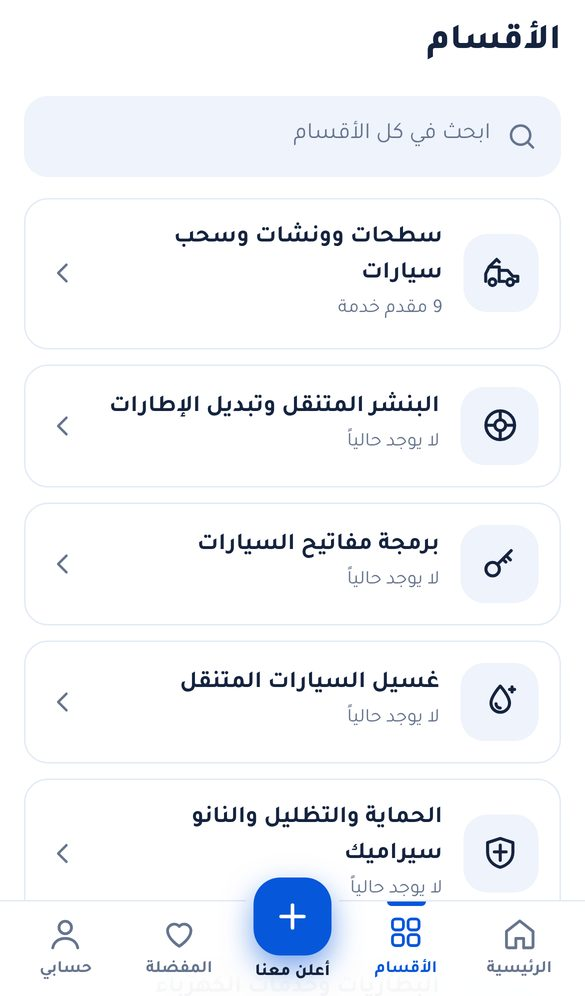
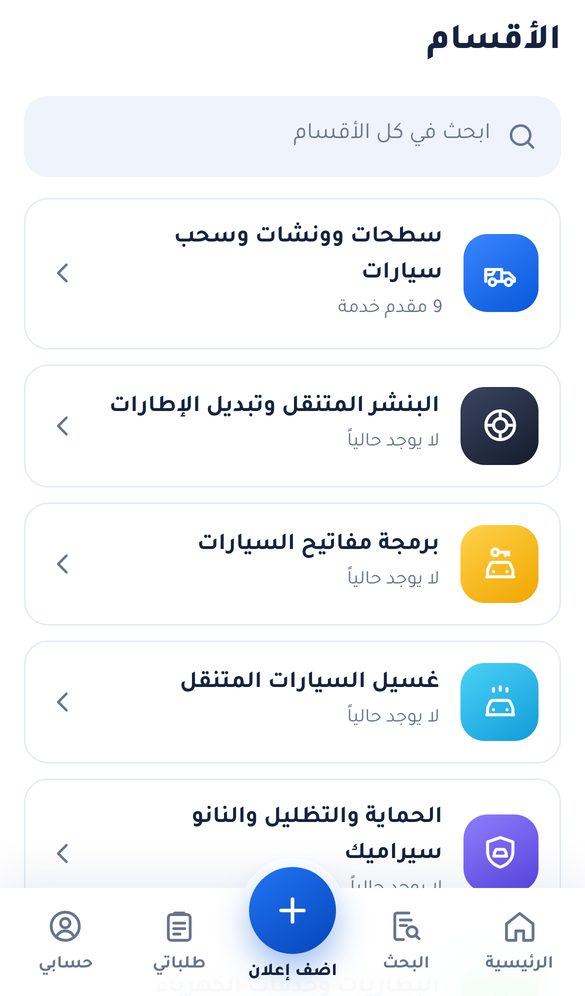
واجهة بنفس تصميم تطبيق ماتعطل مع تحسينات
- ترويسة زرقاء متدرجة مع التحية و«وين ما تعطلت... إحنا قريبين منك.»
- شريط بحث عائم بزر أزرق وفلتر، وبطاقة صفراء «سيارتك تعطلت؟»
- أيقونات الخدمات بمربعات ملوّنة متدرجة
- بطاقات «قريب منك» زرقاء مع المسافة وشعار مقدم الخدمة
- شريط سفلي: الرئيسية، البحث، اضف إعلان، طلباتي، حسابي
- صفحة «طلباتي» (الإعلانات وطلب الانضمام)

Claude-Session: https://claude.ai/code/session_0146Lf518ZNvSUDuRn6RZiVQ

diff --git a/preview/js/app.js b/preview/js/app.js
@@ -6,7 +6,7 @@ import {
 } from './core.js';
 
 initSession('local');
-const VERSION = '4.0.1';
+const VERSION = '4.1.0';
 const COLS = 'id,service_id,name,phone,whatsapp,price_text,rating,rating_count,logo_url,cover_url,photos,description,address,lat,lng,is_24h,is_available,created_at,featured_until,is_sample,company_areas(areas(name_ar)),company_services(service_id)';
 
 /* ================= الحالة ================= */
@@ -132,8 +132,10 @@ function actions(c) {
 function pcard(c) {
   const fav = S.favs.has(c.id);
   return `<div class="pcard" data-href="#/c/${c.id}" role="link" tabindex="0" aria-label="${esc(c.name)}">
-    <div class="media">${media(c)}<div class="badges">${c.feat ? `<span class="badge y">${icon('star')}مميز</span>` : ''}${c.h24 ? `<span class="badge dark">${icon('clock')}24 ساعة</span>` : ''}</div>
-      <button class="fav-mini ${fav ? 'on' : ''}" data-act="fav" data-id="${c.id}" aria-label="المفضلة">${icon('heart')}</button></div>
+    <div class="media blue">${c.cover ? `<img src="${esc(c.cover)}" alt="" loading="lazy" decoding="async">` : `<span class="bigic">${svcIcon(svc(c.s) || c.s)}</span>`}
+      <div class="badges">${distTxt(c) ? `<span class="badge glass">${icon('pin')}${distTxt(c)}</span>` : ''}${c.feat ? `<span class="badge y">${icon('star')}مميز</span>` : ''}${c.h24 ? `<span class="badge glass">${icon('clock')}24 ساعة</span>` : ''}</div>
+      <button class="fav-mini ${fav ? 'on' : ''}" data-act="fav" data-id="${c.id}" aria-label="المفضلة">${icon('heart')}</button>
+      <span class="av">${c.logo ? `<img src="${esc(c.logo)}" alt="" loading="lazy">` : svcIcon(svc(c.s) || c.s)}</span></div>
     <div class="body"><div class="nm">${esc(c.name)}</div>
       <div class="meta">${svcIcon(svc(c.s) || c.s)}<span>${esc(svcName(c.s))}</span></div>
       <div class="meta">${icon('pin')}<span>${esc(areaText(c))}${distTxt(c) ? ' · ' + distTxt(c) : ''}</span><span style="margin-inline-start:auto">${rateHtml(c)}</span></div>
@@ -197,7 +199,7 @@ function pgHome() {
   const maint = S.settings.maintenance_message;
   const homeAds = S.ads.filter(a => a.ad_type === 'home_banner' && safeImg(a.image_url));
   const items = [...homeAds.map(a => bannerHtml(a, 'ad')), ...S.banners.map(b => bannerHtml(b)), ...promos()];
-  const cats = S.services.map(s => `<a class="cat" href="#/s/${esc(s.id)}"><span class="ic">${svcIcon(s)}</span><span class="n">${esc(s.name_ar)}</span></a>`).join('');
+  const cats = S.services.map(s => `<a class="cat" href="#/s/${esc(s.id)}"><span class="ic tile t-${esc(s.icon || s.id)}">${svcIcon(s)}</span><span class="n">${esc(s.name_ar)}</span></a>`).join('');
   let nearby, featured = '', latest;
   if (!S.loaded) { nearby = skRail(); latest = skRail(); }
   else {
@@ -212,15 +214,18 @@ function pgHome() {
   return {
     tab: 'home',
     html: `
-    <div class="home-band"><div class="home-head"><div class="logo" aria-label="ماتعطل"><span class="mark">م</span>ماتعطل<span class="dot">•</span></div>
+    <div class="home-band"><div class="home-head"><div class="logo wordmark" aria-label="ماتعطل">ماتعطل<span class="dot"></span></div>
       <button class="loc-chip" data-act="area" aria-label="اختيار المنطقة">${icon('pin', 'pin')}<span>${esc(areaLabel())}</span>${icon('chevD')}</button></div>
-    <a class="searchbar" href="#/search" aria-label="بحث">${icon('search')}<span class="ph">ابحث عن ونش، بنشر، مفاتيح...</span></a></div>
-    ${maint ? `<div class="pad" style="margin-top:10px"><div class="note y">${icon('info')}<div>${esc(maint)}</div></div></div>` : ''}
+      <div class="greet"><small>${new Date().getHours() < 12 ? 'صباح الخير' : 'مساء الخير'} 👋</small><h1>وين ما تعطلت...<br>إحنا قريبين منك.</h1></div></div>
+    <div class="search-float"><a class="sbtn" href="#/search" aria-label="بحث">${icon('search')}</a><a class="sph" href="#/search">ابحث عن سطحة، بنشر، مفاتيح...</a><a class="sflt" href="#/categories" aria-label="الفلاتر">${icon('filter')}</a></div>
+    <a class="sos" href="#/s/tow"><span class="ic">${icon('siren')}</span><span class="t"><b>سيارتك تعطلت؟</b><small>اطلب سطحة الآن وتواصل مباشرة</small></span>${icon('arrowL', 'go')}</a>
+    ${maint ? `<div class="pad" style="margin-top:12px"><div class="note y">${icon('info')}<div>${esc(maint)}</div></div></div>` : ''}
     ${S.err && !S.loaded ? errBox() : ''}
-    <section class="sec" style="margin-top:14px">${carousel(items)}</section>
-    <section class="sec"><div class="sec-h"><h2>الأقسام</h2><a class="more" href="#/categories">عرض الكل${icon('chevL')}</a></div><div class="cats">${cats || '<div class="sk" style="grid-column:1/-1;height:180px"></div>'}</div></section>
-    <section class="sec"><div class="sec-h"><h2>القريبة منك</h2>${S.area !== 'all' || S.pos ? `<button class="more" data-act="area">${esc(areaLabel())}${icon('chevD')}</button>` : ''}</div>${nearby}</section>
+    ${homeAds.length || S.banners.length ? `<section class="sec">${carousel(items.slice(0, homeAds.length + S.banners.length))}</section>` : ''}
+    <section class="sec"><div class="sec-h"><h2>الخدمات</h2><a class="more" href="#/categories">الكل${icon('chevL')}</a></div><div class="cats">${cats || '<div class="sk" style="grid-column:1/-1;height:180px"></div>'}</div></section>
+    <section class="sec"><div class="sec-h"><h2>قريب منك</h2>${S.area !== 'all' || S.pos ? `<a class="more" href="#/s/${esc((S.services[0] || {}).id || 'tow')}?sort=near">عرض الكل${icon('chevL')}</a>` : ''}</div>${nearby}</section>
     ${featured}
+    ${!homeAds.length && !S.banners.length ? `<section class="sec">${carousel(promos())}</section>` : ''}
     <section class="sec"><div class="sec-h"><h2>أحدث مقدمي الخدمات</h2></div>${latest}</section>
     ${installCard()}
     <div class="footer-note">ماتعطل · منصة خدمات السيارات في الكويت<br>التواصل والدفع يتم مباشرة بينك وبين مقدم الخدمة.</div>`,
@@ -256,7 +261,7 @@ function pgCategories() {
     tab: 'cats',
     html: `<header class="topbar"><h1 style="font-size:24px">الأقسام</h1></header>
     <a class="searchbar" href="#/search" style="margin-bottom:14px">${icon('search')}<span class="ph">ابحث في كل الأقسام</span></a>
-    <div class="cat-list">${S.services.map(s => `<a class="cat-row" href="#/s/${esc(s.id)}"><span class="ic">${svcIcon(s)}</span><span><b>${esc(s.name_ar)}</b><small>${S.loaded ? (n(s.id) ? fmtNum(n(s.id)) + ' مقدم خدمة' : 'لا يوجد حالياً') : '...'}</small></span>${icon('chevL', 'chev')}</a>`).join('') || '<div class="sk" style="height:300px"></div>'}</div>
+    <div class="cat-list">${S.services.map(s => `<a class="cat-row" href="#/s/${esc(s.id)}"><span class="ic tile t-${esc(s.icon || s.id)}">${svcIcon(s)}</span><span><b>${esc(s.name_ar)}</b><small>${S.loaded ? (n(s.id) ? fmtNum(n(s.id)) + ' مقدم خدمة' : 'لا يوجد حالياً') : '...'}</small></span>${icon('chevL', 'chev')}</a>`).join('') || '<div class="sk" style="height:300px"></div>'}</div>
     ${S.err && !S.loaded ? errBox() : ''}`,
   };
 }
@@ -310,7 +315,7 @@ function pgService([id], q) {
 function pgSearch(_, q) {
   const text = q.get('q') || '';
   return {
-    tab: 'home',
+    tab: 'search',
     html: `<header class="topbar"><button class="icon-btn clear" data-act="back" aria-label="رجوع">${icon('chevR')}</button>
       <label class="searchbar" style="margin:0;flex:1;width:auto;height:48px">${icon('search')}<input id="sq" type="search" placeholder="ابحث عن خدمة أو اسم أو منطقة" value="${esc(text)}" data-live="search" enterkeyhint="search" autocomplete="off" aria-label="بحث"></label></header>
       <div id="sres">${searchResults(text)}</div>`,
@@ -322,7 +327,7 @@ function searchResults(text) {
   if (!t) {
     return `${S.recent.length ? `<div class="sec-h" style="margin-top:14px"><h2 style="font-size:16px">عمليات البحث الأخيرة</h2><button class="more" data-act="clear-recent">مسح</button></div><div class="chips" style="flex-wrap:wrap">${S.recent.map(r => `<a class="chip out" href="#/search?q=${encodeURIComponent(r)}">${icon('clock')}${esc(r)}</a>`).join('')}</div>` : ''}
       <div class="sec-h" style="margin-top:20px"><h2 style="font-size:16px">تصفّح حسب الخدمة</h2></div>
-      <div class="cat-list">${S.services.map(s => `<a class="cat-row" href="#/s/${esc(s.id)}"><span class="ic">${svcIcon(s)}</span><span><b>${esc(s.name_ar)}</b></span>${icon('chevL', 'chev')}</a>`).join('')}</div>`;
+      <div class="cat-list">${S.services.map(s => `<a class="cat-row" href="#/s/${esc(s.id)}"><span class="ic tile t-${esc(s.icon || s.id)}">${svcIcon(s)}</span><span><b>${esc(s.name_ar)}</b></span>${icon('chevL', 'chev')}</a>`).join('')}</div>`;
   }
   const cats = S.services.filter(s => norm(s.name_ar).includes(t) || t.split(' ').some(w => w.length > 1 && norm(s.name_ar).includes(w)));
   const syn = { 'ونش': 'tow', 'سطحه': 'tow', 'سحب': 'tow', 'بنشر': 'tire', 'تاير': 'tire', 'اطار': 'tire', 'كفر': 'tire', 'مفتاح': 'keys', 'ريموت': 'keys', 'غسيل': 'wash', 'تلميع': 'wash', 'تظليل': 'shield', 'نانو': 'shield', 'حمايه': 'shield', 'بطاريه': 'bat', 'بطارية': 'bat', 'كهرباء': 'bat', 'ميكانيك': 'mech', 'صيانه': 'mech' };
@@ -506,7 +511,7 @@ function pgAccount() {
 function pgFavorites() {
   const list = S.cos.filter(c => S.favs.has(c.id));
   return {
-    tab: 'fav',
+    tab: 'account',
     html: `<header class="topbar"><h1 style="font-size:24px">المفضلة</h1></header>
     ${!S.loaded ? '<div class="stack"><div class="sk" style="height:120px"></div></div>' : list.length ? `<div class="stack">${list.map(lcard).join('')}</div>` : emptyBox('heart', 'ما عندك مفضلة بعد', 'اضغط على القلب في أي مقدم خدمة لحفظه هنا والوصول له بسرعة.', '<a class="btn primary" href="#/categories">تصفّح الأقسام</a>')}
     ${!session() && list.length ? `<div class="pad" style="margin-top:14px"><div class="note">${icon('info')}<div>المفضلة محفوظة على هذا الجهاز. <a href="#/auth?next=/favorites" style="font-weight:800;text-decoration:underline">سجّل دخولك</a> لحفظها في حسابك.</div></div></div>` : ''}`,
@@ -542,7 +547,7 @@ async function pgMyBusiness() {
   let list = [];
   try { list = await myCompanies(); } catch (e) { return { html: topbar('نشاطي التجاري') + emptyBox('refresh', 'تعذّر التحميل', errText(e)) }; }
   return {
-    tab: 'account',
+    tab: 'req',
     html: topbar('نشاطي التجاري') + (list.length ? `<div class="stack" style="margin-top:12px">${list.map(c => `<div class="item-card"><div class="top">${safeImg(c.logo_url) ? `<img src="${esc(safeImg(c.logo_url))}" alt="">` : `<span class="ph">${svcIcon(svc(c.service_id) || c.service_id)}</span>`}<div style="flex:1;min-width:0"><b>${esc(c.name)}</b><small style="color:var(--mut)">${esc(svcName(c.service_id))}</small></div></div>
       <div class="tagline">${statusTag(c)}${c.status === 'approved' && c.sub_end ? `<span class="tg">الاشتراك حتى ${fmtDate(c.sub_end)}</span>` : ''}</div>
       ${c.status === 'approved' ? `<div class="stats3"><div><b>${fmtNum(c.visits)}</b><small>مشاهدة</small></div><div><b>${fmtNum(c.calls)}</b><small>اتصال</small></div><div><b>${fmtNum(c.wa_taps)}</b><small>واتساب</small></div></div>` : ''}
@@ -708,7 +713,7 @@ async function pgMyAds() {
   catch (e) { return { html: topbar('إعلاناتي') + emptyBox('refresh', 'تعذّر التحميل', errText(e)) }; }
   const tName = id => (AD_TYPES.find(t => t.id === id) || {}).t || id;
   return {
-    tab: 'ad',
+    tab: 'req',
     html: topbar('إعلاناتي') + (list.length ? `<div class="stack" style="margin-top:12px">${list.map(a => { const [k, t] = adStatus(a); return `<div class="item-card"><img class="wide-img" src="${esc(safeImg(a.image_url))}" alt="" loading="lazy">
       <div style="display:flex;justify-content:space-between;gap:8px;align-items:center"><b>${esc(a.title || tName(a.ad_type))}</b><span class="tg ${k}">${esc(t)}</span></div>
       <small style="color:var(--mut)">${esc(tName(a.ad_type))} · ${a.duration_days} يوم · أُرسل ${fmtDate(a.created_at)}</small>
@@ -716,6 +721,17 @@ async function pgMyAds() {
       ${a.status === 'approved' ? `<div class="stats3"><div><b>${fmtNum(a.views)}</b><small>مشاهدة</small></div><div><b>${fmtNum(a.clicks)}</b><small>نقرة</small></div><div><b>${a.views ? ((a.clicks / a.views) * 100).toFixed(1) + '%' : '—'}</b><small>نسبة النقر</small></div></div>` : ''}
       ${a.status === 'pending' && a.payment_status === 'unpaid' ? `<button class="btn sm danger-soft" data-act="del-ad" data-id="${a.id}">${icon('trash')}إلغاء الطلب</button>` : ''}</div>`; }).join('')}<a class="btn primary block" href="#/advertise">${icon('plus')}طلب إعلان جديد</a></div>`
         : emptyBox('megaphone', 'ما عندك إعلانات', 'قدّم طلب إعلانك وتابع حالته وإحصائياته من هنا.', '<a class="btn primary" href="#/advertise">أعلن معنا</a>')),
+  };
+}
+async function pgRequests(_, q) {
+  const t = q.get('t') === 'biz' ? 'biz' : 'ads';
+  const inner = await (t === 'ads' ? pgMyAds() : pgMyBusiness());
+  const body = (inner.html || '').replace(/^\s*<header[\s\S]*?<\/header>/, '');
+  return {
+    tab: 'req',
+    html: `<header class="topbar"><h1 style="font-size:24px">طلباتي</h1></header>
+      <div class="seg req-seg"><a href="#/requests?t=ads" class="${t === 'ads' ? 'on' : ''}" style="flex:1;height:44px;border-radius:11px;display:grid;place-items:center;font-weight:800;${t === 'ads' ? 'background:var(--surface);color:var(--brand);box-shadow:var(--sh-1)' : 'color:var(--mut)'}">إعلاناتي</a><a href="#/requests?t=biz" style="flex:1;height:44px;border-radius:11px;display:grid;place-items:center;font-weight:800;${t === 'biz' ? 'background:var(--surface);color:var(--brand);box-shadow:var(--sh-1)' : 'color:var(--mut)'}">طلب الانضمام</a></div>
+      ${body}`,
   };
 }
 function pgAbout() {
@@ -758,7 +774,7 @@ function setPos(p, quiet) {
 const ROUTES = [
   [/^\/?$/, pgHome], [/^\/categories$/, pgCategories], [/^\/s\/([\w-]+)$/, pgService], [/^\/search$/, pgSearch], [/^\/c\/(\d+)$/, pgCompany],
   [/^\/advertise$/, pgAdvertise], [/^\/join$/, pgJoin], [/^\/account$/, pgAccount], [/^\/auth$/, pgAuth], [/^\/favorites$/, pgFavorites],
-  [/^\/my-ads$/, pgMyAds], [/^\/my-business$/, pgMyBusiness], [/^\/notifications$/, pgNotifications], [/^\/about$/, pgAbout],
+  [/^\/my-ads$/, pgMyAds], [/^\/requests$/, pgRequests], [/^\/my-business$/, pgMyBusiness], [/^\/notifications$/, pgNotifications], [/^\/about$/, pgAbout],
 ];
 const parse = () => { const h = location.hash.replace(/^#/, '') || '/'; const [p, qs] = h.split('?'); return { p: p || '/', q: new URLSearchParams(qs || '') }; };
 export function go(path, replace) { const h = '#' + (path.startsWith('/') ? path : '/' + path); if (replace) { history.replaceState(null, '', h); render(); } else location.hash = h; }

diff --git a/preview/css/app.css b/preview/css/app.css
@@ -406,3 +406,70 @@ body.hide-tabs #app{padding-bottom:calc(84px + var(--bot-safe))}
 .sec-h h2{color:#122D66}
 :root[data-theme="dark"] .sec-h h2{color:var(--ink)}
 @media (prefers-color-scheme:dark){:root:not([data-theme="light"]) .sec-h h2{color:var(--ink)}}
+
+/* ===== v4.1 — واجهة تطبيق ماتعطل (مطوّرة) ===== */
+.home-band{position:relative;overflow:hidden;background:radial-gradient(120% 90% at 0% 0%,#2C7BFF 0%,rgba(44,123,255,0) 55%),linear-gradient(155deg,#0A4FC9 0%,#0757DB 45%,#003AA8 100%);padding:0 0 66px;border-radius:0 0 34px 34px;box-shadow:none}
+.home-band::before{content:'';position:absolute;width:340px;height:340px;border-radius:50%;left:-110px;top:-150px;background:rgba(255,255,255,.07)}
+.home-band::after{content:'';position:absolute;width:190px;height:190px;border-radius:50%;left:-30px;top:-60px;border:1px solid rgba(255,255,255,.09)}
+.home-band>*{position:relative;z-index:1}
+.home-head{padding:calc(var(--top-safe) + 16px) 20px 4px}
+.logo.wordmark{font-size:30px;letter-spacing:-.8px;color:#fff;display:flex;align-items:center;gap:6px}
+.logo.wordmark .dot{width:9px;height:9px;border-radius:50%;background:var(--dot);display:inline-block;margin-top:10px;box-shadow:0 0 0 4px rgba(255,196,0,.18)}
+.home-band .loc-chip{background:rgba(255,255,255,.12);border:1px solid rgba(255,255,255,.28);backdrop-filter:blur(10px);-webkit-backdrop-filter:blur(10px);padding:9px 14px 9px 12px}
+.greet{padding:22px 20px 0;color:#fff}
+.greet small{display:block;font-size:15px;font-weight:600;opacity:.88;margin-bottom:6px}
+.greet h1{margin:0;font-size:30px;line-height:1.45;font-weight:800;letter-spacing:-.4px;text-wrap:balance}
+.search-float{position:relative;z-index:5;margin:-36px 16px 0;height:70px;background:var(--surface);border-radius:22px;display:flex;align-items:center;gap:6px;padding:0 8px;box-shadow:0 14px 34px rgba(0,40,120,.14),0 2px 6px rgba(0,40,120,.06);border:1px solid var(--line)}
+.search-float .sbtn{width:54px;height:54px;border-radius:16px;background:linear-gradient(145deg,#1A6BF0,#0757DB);color:#fff;display:grid;place-items:center;flex:none;box-shadow:0 6px 14px rgba(7,87,219,.35);transition:transform .15s var(--ease)}
+.search-float .sbtn:active{transform:scale(.92)}
+.search-float .sbtn .i{width:24px;height:24px;stroke-width:2.2}
+.search-float .sph{flex:1;color:var(--mut);font-size:15.5px;padding:0 6px;white-space:nowrap;overflow:hidden;text-overflow:ellipsis;height:100%;display:flex;align-items:center}
+.search-float .sflt{width:46px;height:46px;border-radius:14px;display:grid;place-items:center;color:var(--ink2);flex:none;border-inline-start:1px solid var(--line)}
+.sos{margin:16px 16px 0;display:flex;align-items:center;gap:14px;padding:14px 16px;border-radius:22px;background:linear-gradient(120deg,#FFD24A 0%,#FFC400 45%,#F2A900 100%);color:#2A1E00;box-shadow:0 10px 24px rgba(242,169,0,.28);position:relative;overflow:hidden;transition:transform .16s var(--ease)}
+.sos:active{transform:scale(.985)}
+.sos::after{content:'';position:absolute;width:160px;height:160px;border-radius:50%;background:rgba(255,255,255,.18);left:-50px;top:-90px}
+.sos .ic{width:58px;height:58px;border-radius:18px;background:rgba(255,255,255,.55);display:grid;place-items:center;flex:none;position:relative;z-index:1}
+.sos .ic .i{width:30px;height:30px;stroke-width:1.9;color:#2A1E00}
+.sos .t{flex:1;position:relative;z-index:1}
+.sos .t b{display:block;font-size:19px;font-weight:800;line-height:1.3}
+.sos .t small{display:block;font-size:14px;opacity:.82;margin-top:2px}
+.sos .go{width:24px;height:24px;position:relative;z-index:1;stroke-width:2.2}
+.sec{margin-top:26px}
+.sec-h{margin-bottom:14px;padding:0 20px}
+.sec-h h2{font-size:21px;color:var(--ink)}
+.sec-h .more{color:var(--brand);font-size:15px;font-weight:800}
+.cats{gap:18px 6px;padding:0 10px}
+.cat{font-size:13px;color:var(--ink);font-weight:700;gap:9px}
+.cat .ic.tile{width:64px;height:64px;border-radius:21px;color:#fff;box-shadow:0 8px 18px -6px var(--tsh,rgba(7,87,219,.45)),inset 0 1px 0 rgba(255,255,255,.25)}
+.cat .ic.tile::after{display:none}
+.cat .ic.tile .i{width:30px;height:30px;stroke-width:1.9}
+.tile.t-tow{background:linear-gradient(145deg,#3B86FF,#0757DB);--tsh:rgba(7,87,219,.5)}
+.tile.t-tire{background:linear-gradient(145deg,#3A4560,#141B2D);--tsh:rgba(20,27,45,.5)}
+.tile.t-key{background:linear-gradient(145deg,#FFD24A,#F0A500);--tsh:rgba(240,165,0,.5)}
+.tile.t-wash{background:linear-gradient(145deg,#4BD2F7,#119BD9);--tsh:rgba(17,155,217,.5)}
+.tile.t-shield{background:linear-gradient(145deg,#8E7DFB,#5A45E0);--tsh:rgba(90,69,224,.5)}
+.tile.t-battery{background:linear-gradient(145deg,#4BE38A,#17B157);--tsh:rgba(23,177,87,.5)}
+.tile.t-wrench{background:linear-gradient(145deg,#FF9A4D,#EA5E17);--tsh:rgba(234,94,23,.5)}
+.tile.t-grid{background:linear-gradient(145deg,#97A3B8,#5D6A80);--tsh:rgba(93,106,128,.5)}
+.cat-row .ic{color:#fff}
+.pcard{border-radius:24px;border:1px solid var(--line);box-shadow:0 6px 20px rgba(0,40,120,.06)}
+.pcard .media.blue{aspect-ratio:16/9.4;background:radial-gradient(90% 120% at 100% 0%,#3B8BFF 0%,rgba(59,139,255,0) 60%),linear-gradient(150deg,#1D6BF2,#0745BF);overflow:visible}
+.pcard .media.blue>img{border-radius:24px 24px 0 0}
+.pcard .media .bigic{position:absolute;inset:0;display:grid;place-items:center;color:rgba(255,255,255,.22);overflow:hidden;border-radius:24px 24px 0 0}
+.pcard .media .bigic .i{width:110px;height:110px;stroke-width:1.3;transform:translateX(-14%)}
+.badge.glass{background:rgba(0,25,80,.35);color:#fff;backdrop-filter:blur(8px);-webkit-backdrop-filter:blur(8px);box-shadow:none;border:1px solid rgba(255,255,255,.18)}
+.pcard .media .av{position:absolute;right:14px;bottom:-26px;width:58px;height:58px;border-radius:50%;background:#fff;border:3px solid var(--surface);box-shadow:0 6px 16px rgba(0,40,120,.18);overflow:hidden;display:grid;place-items:center;color:var(--brand);z-index:2}
+.pcard .media .av img{width:100%;height:100%;object-fit:cover}
+.pcard .media .av .i{width:28px;height:28px}
+.pcard .body{padding:32px 14px 14px}
+.pcard .nm{font-size:17px}
+.tabbar{height:calc(72px + var(--bot-safe));border-top:0;box-shadow:0 -8px 30px rgba(0,40,120,.08);background:color-mix(in srgb,var(--bg) 94%,transparent)}
+.tabbar a{font-size:12px;gap:4px}
+.tabbar a.on{color:var(--brand)}
+.tabbar a.on::before{display:none}
+.tabbar a.on::after{content:'';position:absolute;top:34px;width:5px;height:5px;border-radius:50%;background:var(--dot);transform:translateX(9px)}
+.tabbar a.on .i{fill:color-mix(in srgb,var(--brand) 14%,transparent)}
+.tabbar .fab span.c{width:58px;height:58px;border-radius:50%;background:linear-gradient(145deg,#2275F5,#0545B8);margin-top:-28px;box-shadow:0 10px 22px rgba(7,87,219,.4),0 0 0 6px var(--bg)}
+.tabbar .fab{font-size:12px;color:var(--ink)}
+#app{padding-bottom:calc(72px + var(--bot-safe) + 18px)}
+.req-seg{margin:12px 16px 0}

diff --git a/preview/js/core.js b/preview/js/core.js
@@ -194,6 +194,16 @@ const P = {
   tap: '<path d="M9 11.5V5.5a1.8 1.8 0 0 1 3.6 0V11l4.6.9c1 .2 1.7 1 1.6 2.1l-.6 4.5a2.5 2.5 0 0 1-2.5 2H11a3 3 0 0 1-2.3-1.1L5.5 15.5a1.6 1.6 0 0 1 2.3-2.2z"/>',
   refresh: '<path d="M19.5 12a7.5 7.5 0 1 1-2.2-5.3L19.5 9"/><path d="M19.5 4v5h-5"/>',
   external: '<path d="M14 4h6v6M20 4l-9 9"/><path d="M18 14v5a1 1 0 0 1-1 1H5a1 1 0 0 1-1-1V7a1 1 0 0 1 1-1h5"/>',
+  arrowL: '<path d="M19 12H5M11 6l-6 6 6 6"/>',
+  siren: '<path d="M5 19v-4.5l1.6-3.6A2 2 0 0 1 8.4 9.7h7.2a2 2 0 0 1 1.8 1.2l1.6 3.6V19"/><path d="M4 19h16M7.5 15.5h.01M16.5 15.5h.01"/><path d="M12 6.5V4M7.2 7.6 5.8 6.2M16.8 7.6l1.4-1.4"/>',
+  // أيقونات الخدمات (نفس أسلوب تطبيق ماتعطل)
+  carKey: '<path d="M4.5 20v-4l1.5-3.3A2 2 0 0 1 7.8 11.5h8.4a2 2 0 0 1 1.8 1.2l1.5 3.3v4"/><path d="M4 20h16M8 17h.01M16 17h.01"/><circle cx="9" cy="5.5" r="2"/><path d="M11 5.5h6M15 5.5v2M17 5.5v1.5"/>',
+  carWash: '<path d="M4.5 20v-4l1.5-3.3A2 2 0 0 1 7.8 11.5h8.4a2 2 0 0 1 1.8 1.2l1.5 3.3v4"/><path d="M4 20h16M8 17h.01M16 17h.01"/><path d="M8 4.5v1.5M12 3.5v2M16 4.5v1.5"/>',
+  carShield: '<path d="M12 3 19.5 5.6v5.7c0 4.6-3.2 7.9-7.5 9.2-4.3-1.3-7.5-4.6-7.5-9.2V5.6z"/><path d="M8.5 14v-1.8l.8-1.7a1 1 0 0 1 .9-.5h3.6a1 1 0 0 1 .9.5l.8 1.7V14M8.2 14h7.6"/>',
+  batt: '<rect x="3" y="7.5" width="18" height="12" rx="2"/><path d="M7 7.5V5.5M17 7.5V5.5M6.5 13.5h4M8.5 11.5v4M14 13.5h4"/>',
+  carWrench: '<path d="M3.5 19v-3.5l1.4-3A2 2 0 0 1 6.7 11.3h6.8"/><path d="M3 19h9M7 16.5h.01"/><path d="M19.8 9.6a3.3 3.3 0 0 1-4.3 3.9l-3.4 3.4a1.3 1.3 0 0 1-1.8-1.8l3.4-3.4a3.3 3.3 0 0 1 3.9-4.3l-1.9 1.9.4 1.4 1.4.4z"/>',
+  towTruck: '<path d="M2.5 16.5V9.5h9.5v7"/><path d="M12 11.5h4.2l3.3 3.2v1.8H18"/><circle cx="6.5" cy="17" r="2"/><circle cx="16" cy="17" r="2"/><path d="M8.5 16.5h5.5M2.5 12.5h4l1.5-3"/>',
+  tireRing: '<circle cx="12" cy="12" r="8.5"/><circle cx="12" cy="12" r="4"/><path d="M12 3.5V8M12 16v4.5M3.5 12H8M16 12h4.5"/>',
   // أيقونات الخدمات
   tow: '<path d="M2.5 16.5V12l2-4h6v8.5"/><path d="M10.5 16.5h3M10.5 10h5l3 3.5h3v3h-1.5"/><circle cx="6.5" cy="17" r="2"/><circle cx="17" cy="17" r="2"/><path d="M4.5 8 9 3.5l1.5 1.5"/>',
   tire: '<circle cx="12" cy="12" r="8.5"/><circle cx="12" cy="12" r="3.2"/><path d="M12 3.5v5.3M12 15.2v5.3M3.5 12h5.3M15.2 12h5.3"/>',
@@ -204,7 +214,7 @@ const P = {
   wrench: '<path d="M14.5 4a4.5 4.5 0 0 0-4.2 6.1L4 16.4 7.6 20l6.3-6.3A4.5 4.5 0 0 0 20 9.5l-2.8 2.8-3-.5-.5-3L16.5 6A4.5 4.5 0 0 0 14.5 4z"/>',
   car: '<path d="M4 15.5V12l1.8-4.6A2 2 0 0 1 7.7 6h8.6a2 2 0 0 1 1.9 1.4L20 12v3.5"/><path d="M3 15.5h18v2.5H3zM4 12h16"/><circle cx="7.5" cy="15" r="0.6"/><circle cx="16.5" cy="15" r="0.6"/><path d="M5 18v2M19 18v2"/>',
 };
-const SVC_ICON = { tow: 'tow', tire: 'tire', keys: 'key', key: 'key', wash: 'wash', shield: 'shield', bat: 'battery', battery: 'battery', mech: 'wrench', wrench: 'wrench', other: 'car', grid: 'car' };
+const SVC_ICON = { tow: 'towTruck', tire: 'tireRing', keys: 'carKey', key: 'carKey', wash: 'carWash', shield: 'carShield', bat: 'batt', battery: 'batt', mech: 'carWrench', wrench: 'carWrench', other: 'grid', grid: 'grid' };
 export const icon = (n, cls = '') => `<svg class="i ${cls}" viewBox="0 0 24 24" aria-hidden="true">${P[n] || P.info}</svg>`;
 export const svcIcon = s => icon(SVC_ICON[(s && (s.icon || s.id)) || s] || SVC_ICON[s && s.id] || 'car');
 

diff --git a/preview/index.html b/preview/index.html
@@ -30,7 +30,7 @@
 <link rel="preconnect" href="https://fonts.googleapis.com">
 <link rel="preconnect" href="https://fonts.gstatic.com" crossorigin>
 <link href="https://fonts.googleapis.com/css2?family=Tajawal:wght@400;500;700;800&display=swap" rel="stylesheet">
-<link rel="stylesheet" href="css/app.css?v=4.0.1">
+<link rel="stylesheet" href="css/app.css?v=4.1.0">
 <link rel="modulepreload" href="js/core.js">
 </head>
 <body>
@@ -40,12 +40,12 @@
 </div>
 <nav class="tabbar" aria-label="التنقل الرئيسي">
   <a href="#/" data-tab="home"><svg class="i" viewBox="0 0 24 24" aria-hidden="true"><path d="M3.5 10.5 12 3.8l8.5 6.7V20a1 1 0 0 1-1 1h-5v-6h-5v6h-5a1 1 0 0 1-1-1z"/></svg>الرئيسية</a>
-  <a href="#/categories" data-tab="cats"><svg class="i" viewBox="0 0 24 24" aria-hidden="true"><rect x="3.5" y="3.5" width="7" height="7" rx="2"/><rect x="13.5" y="3.5" width="7" height="7" rx="2"/><rect x="3.5" y="13.5" width="7" height="7" rx="2"/><rect x="13.5" y="13.5" width="7" height="7" rx="2"/></svg>الأقسام</a>
-  <a href="#/advertise" class="fab" data-tab="ad" aria-label="أعلن معنا"><span class="c"><svg class="i" viewBox="0 0 24 24" aria-hidden="true"><path d="M12 5v14M5 12h14"/></svg></span>أعلن معنا</a>
-  <a href="#/favorites" data-tab="fav"><svg class="i" viewBox="0 0 24 24" aria-hidden="true"><path d="M12 20s-7.5-4.6-7.5-10.2A4.3 4.3 0 0 1 12 7.3a4.3 4.3 0 0 1 7.5 2.5C19.5 15.4 12 20 12 20z"/></svg>المفضلة</a>
-  <a href="#/account" data-tab="account"><svg class="i" viewBox="0 0 24 24" aria-hidden="true"><circle cx="12" cy="8" r="4"/><path d="M4 21c.8-4 4-6 8-6s7.2 2 8 6"/></svg>حسابي</a>
+  <a href="#/search" data-tab="search"><svg class="i" viewBox="0 0 24 24" aria-hidden="true"><path d="M14 3.5H6.5a1.5 1.5 0 0 0-1.5 1.5v14a1.5 1.5 0 0 0 1.5 1.5h4"/><path d="M8.5 8h7M8.5 11.5h4"/><circle cx="16" cy="15.5" r="3.2"/><path d="m18.4 17.9 2.1 2.1"/></svg>البحث</a>
+  <a href="#/advertise" class="fab" data-tab="ad" aria-label="اضف إعلان"><span class="c"><svg class="i" viewBox="0 0 24 24" aria-hidden="true"><path d="M12 5v14M5 12h14"/></svg></span>اضف إعلان</a>
+  <a href="#/requests" data-tab="req"><svg class="i" viewBox="0 0 24 24" aria-hidden="true"><rect x="5" y="4.5" width="14" height="16.5" rx="2"/><path d="M9 4.5V3.5h6v1M8.5 10h7M8.5 13.5h7M8.5 17h4"/></svg>طلباتي</a>
+  <a href="#/account" data-tab="account"><svg class="i" viewBox="0 0 24 24" aria-hidden="true"><circle cx="12" cy="12" r="9"/><circle cx="12" cy="10" r="3"/><path d="M6.6 18.2c1.2-2 3.1-3.2 5.4-3.2s4.2 1.2 5.4 3.2"/></svg>حسابي</a>
 </nav>
 <noscript><p style="padding:20px;text-align:center">ماتعطل يحتاج تفعيل JavaScript.</p></noscript>
-<script type="module" src="js/app.js?v=4.0.1"></script>
+<script type="module" src="js/app.js?v=4.1.0"></script>
 </body>
 </html>

diff --git a/preview/sw.js b/preview/sw.js
@@ -1,7 +1,7 @@
 // ماتعطل — Service Worker آمن
 // يخزّن ملفات الواجهة الثابتة فقط. لا يخزّن أي طلبات للخادم (Supabase) أو بيانات الحساب أو لوحة الإدارة.
-const VERSION = 'm3-v4.0.1';
-const SHELL = ['./', './index.html', './css/app.css?v=4.0.1', './js/core.js', './js/app.js?v=4.0.1', './manifest.webmanifest',
+const VERSION = 'm3-v4.1.0';
+const SHELL = ['./', './index.html', './css/app.css?v=4.1.0', './js/core.js', './js/app.js?v=4.1.0', './manifest.webmanifest',
   './icons/icon-192.png', './icons/icon-512.png', './icons/favicon.svg', './icons/apple-touch-icon.png'];
 self.addEventListener('install', e => { e.waitUntil(caches.open(VERSION).then(c => c.addAll(SHELL)).then(() => self.skipWaiting())); });
 self.addEventListener('activate', e => { e.waitUntil(caches.keys().then(ks => Promise.all(ks.filter(k => k !== VERSION && k.startsWith('m3-')).map(k => caches.delete(k)))).then(() => self.clients.claim())); });

diff --git a/preview/admin.html b/preview/admin.html
@@ -10,11 +10,11 @@
 <link rel="icon" href="icons/favicon.svg" type="image/svg+xml">
 <link rel="preconnect" href="https://fonts.gstatic.com" crossorigin>
 <link href="https://fonts.googleapis.com/css2?family=Tajawal:wght@400;500;700;800&display=swap" rel="stylesheet">
-<link rel="stylesheet" href="css/app.css?v=4.0.1">
-<link rel="stylesheet" href="css/admin.css?v=4.0.1">
+<link rel="stylesheet" href="css/app.css?v=4.1.0">
+<link rel="stylesheet" href="css/admin.css?v=4.1.0">
 </head>
 <body class="admin">
 <div id="adm"></div>
-<script type="module" src="js/admin.js?v=4.0.1"></script>
+<script type="module" src="js/admin.js?v=4.1.0"></script>
 </body>
 </html>
